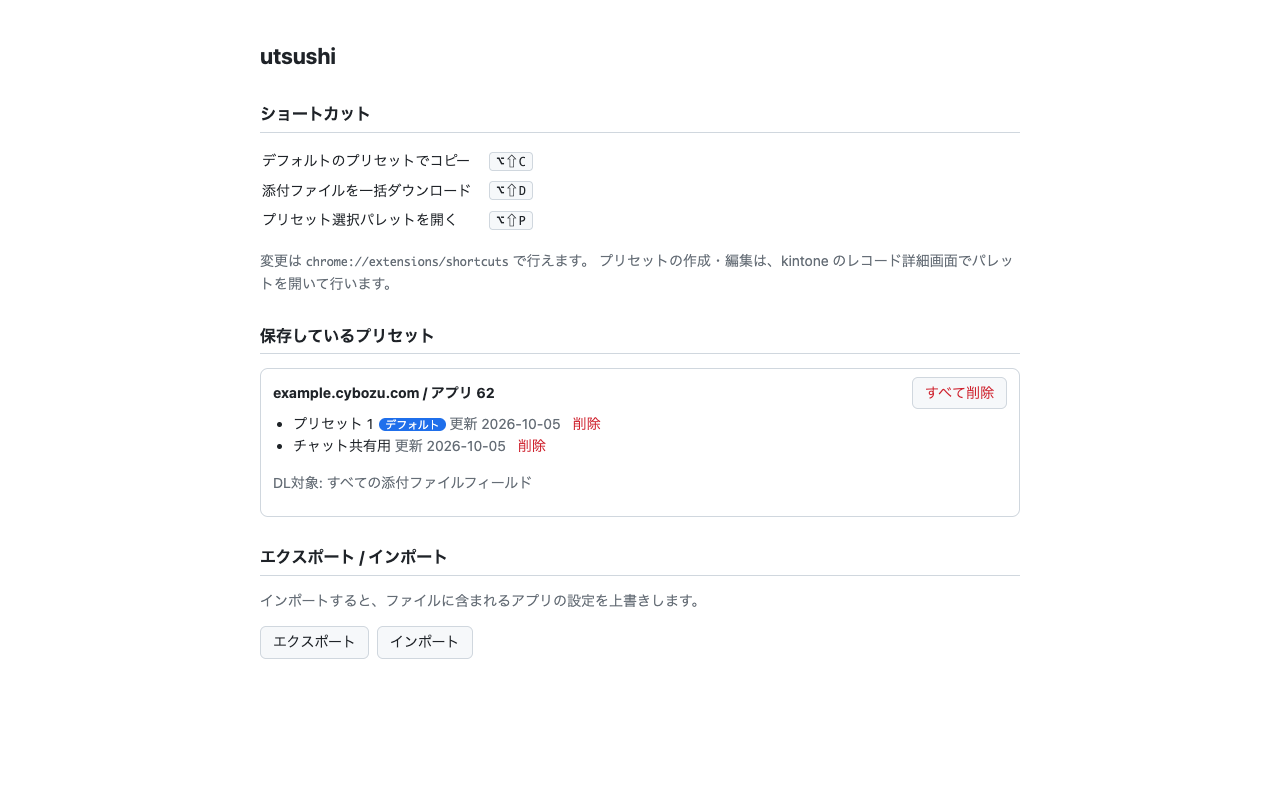
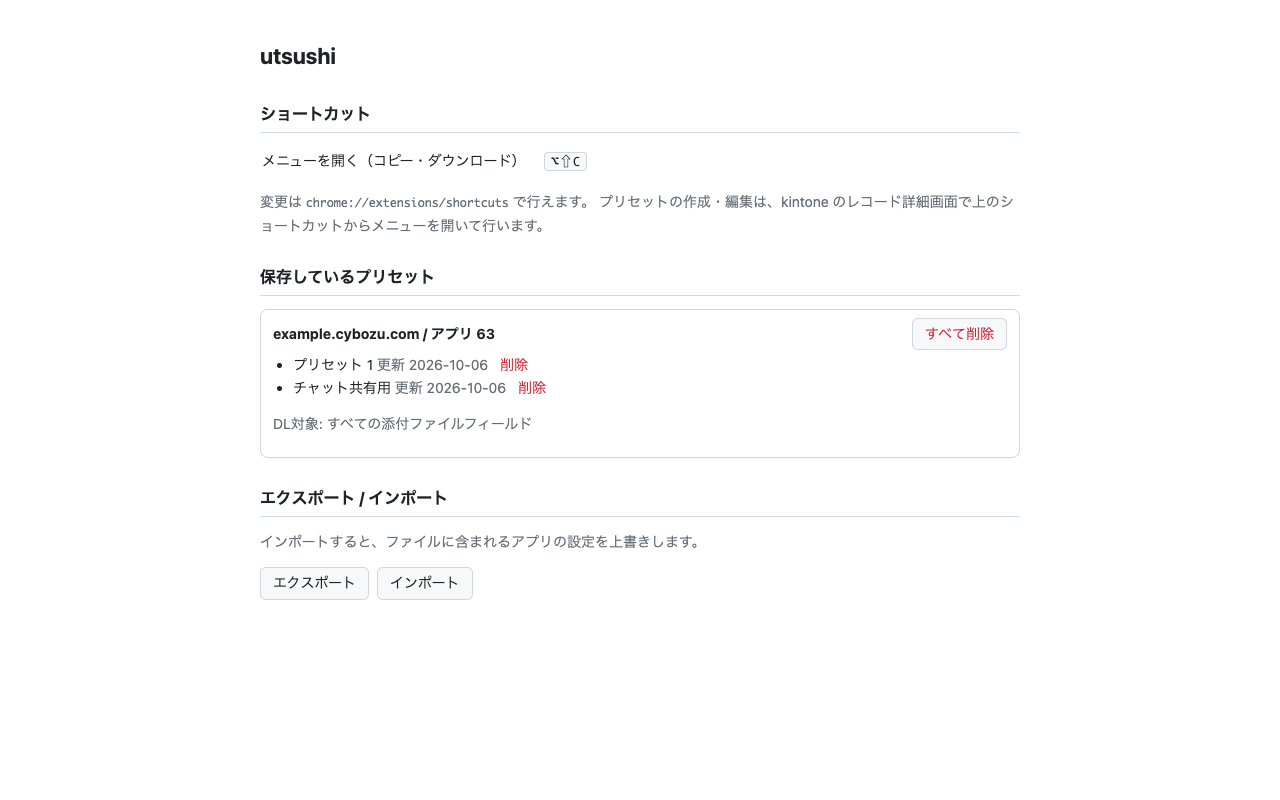
docs(site): retake screenshots for the utsushi menu

diff --git a/site/public/utsushi/index.html b/site/public/utsushi/index.html
@@ -160,7 +160,7 @@
 
       <h3>コピーされるテキストの例</h3>
       <!-- utsushi-copied:start（撮影スクリプトが書き換える） -->
-      <pre><code>レコード: https://example.cybozu.com/k/62/show#record=1
+      <pre><code>レコード: https://example.cybozu.com/k/63/show#record=1
 
 案件名: 業務システム導入支援
 顧客名: 株式会社サンプル
@@ -178,14 +178,14 @@
 レコード番号: 1
 更新者: 佐藤 花子
 作成者: 佐藤 花子
-更新日時: 2026-10-05 08:42
-作成日時: 2026-10-05 08:42
+更新日時: 2026-10-06 08:31
+作成日時: 2026-10-06 08:31
 
 【コメント】
-■ 鈴木 一郎（2026-10-05 08:42）
+■ 鈴木 一郎（2026-10-06 08:31）
 金額を最新の見積もりに更新しました。ご確認ください。 
 
-■ 佐藤 花子（2026-10-05 08:42）
+■ 佐藤 花子（2026-10-06 08:31）
 確認しました。明日、先方に送付します。 </code></pre>
       <!-- utsushi-copied:end -->
 
